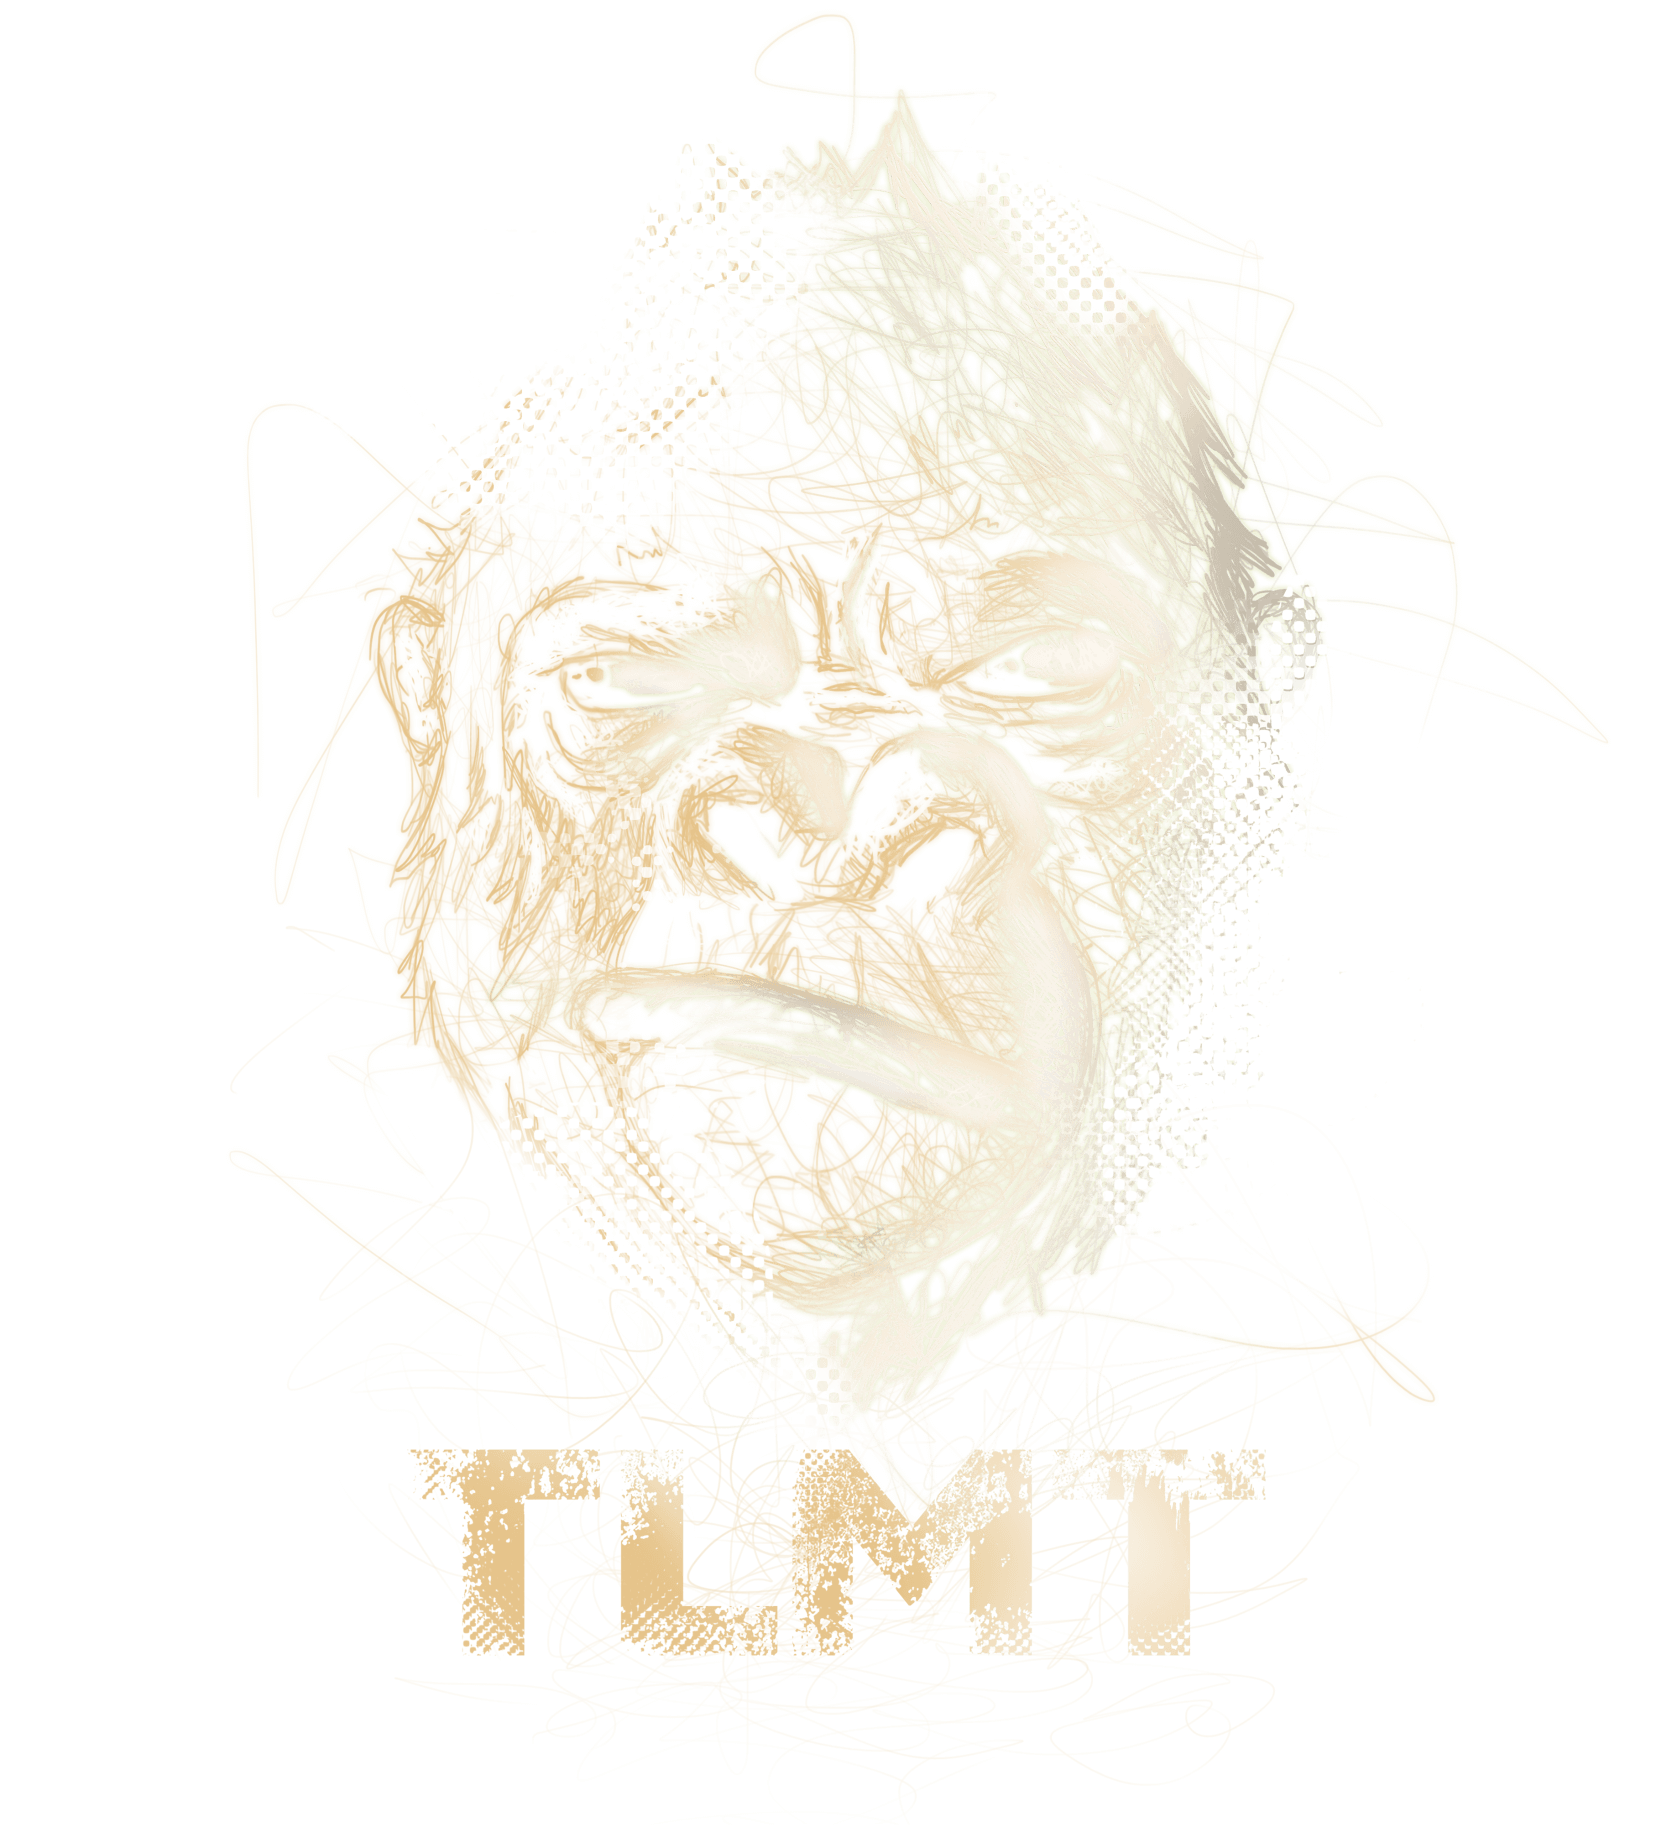
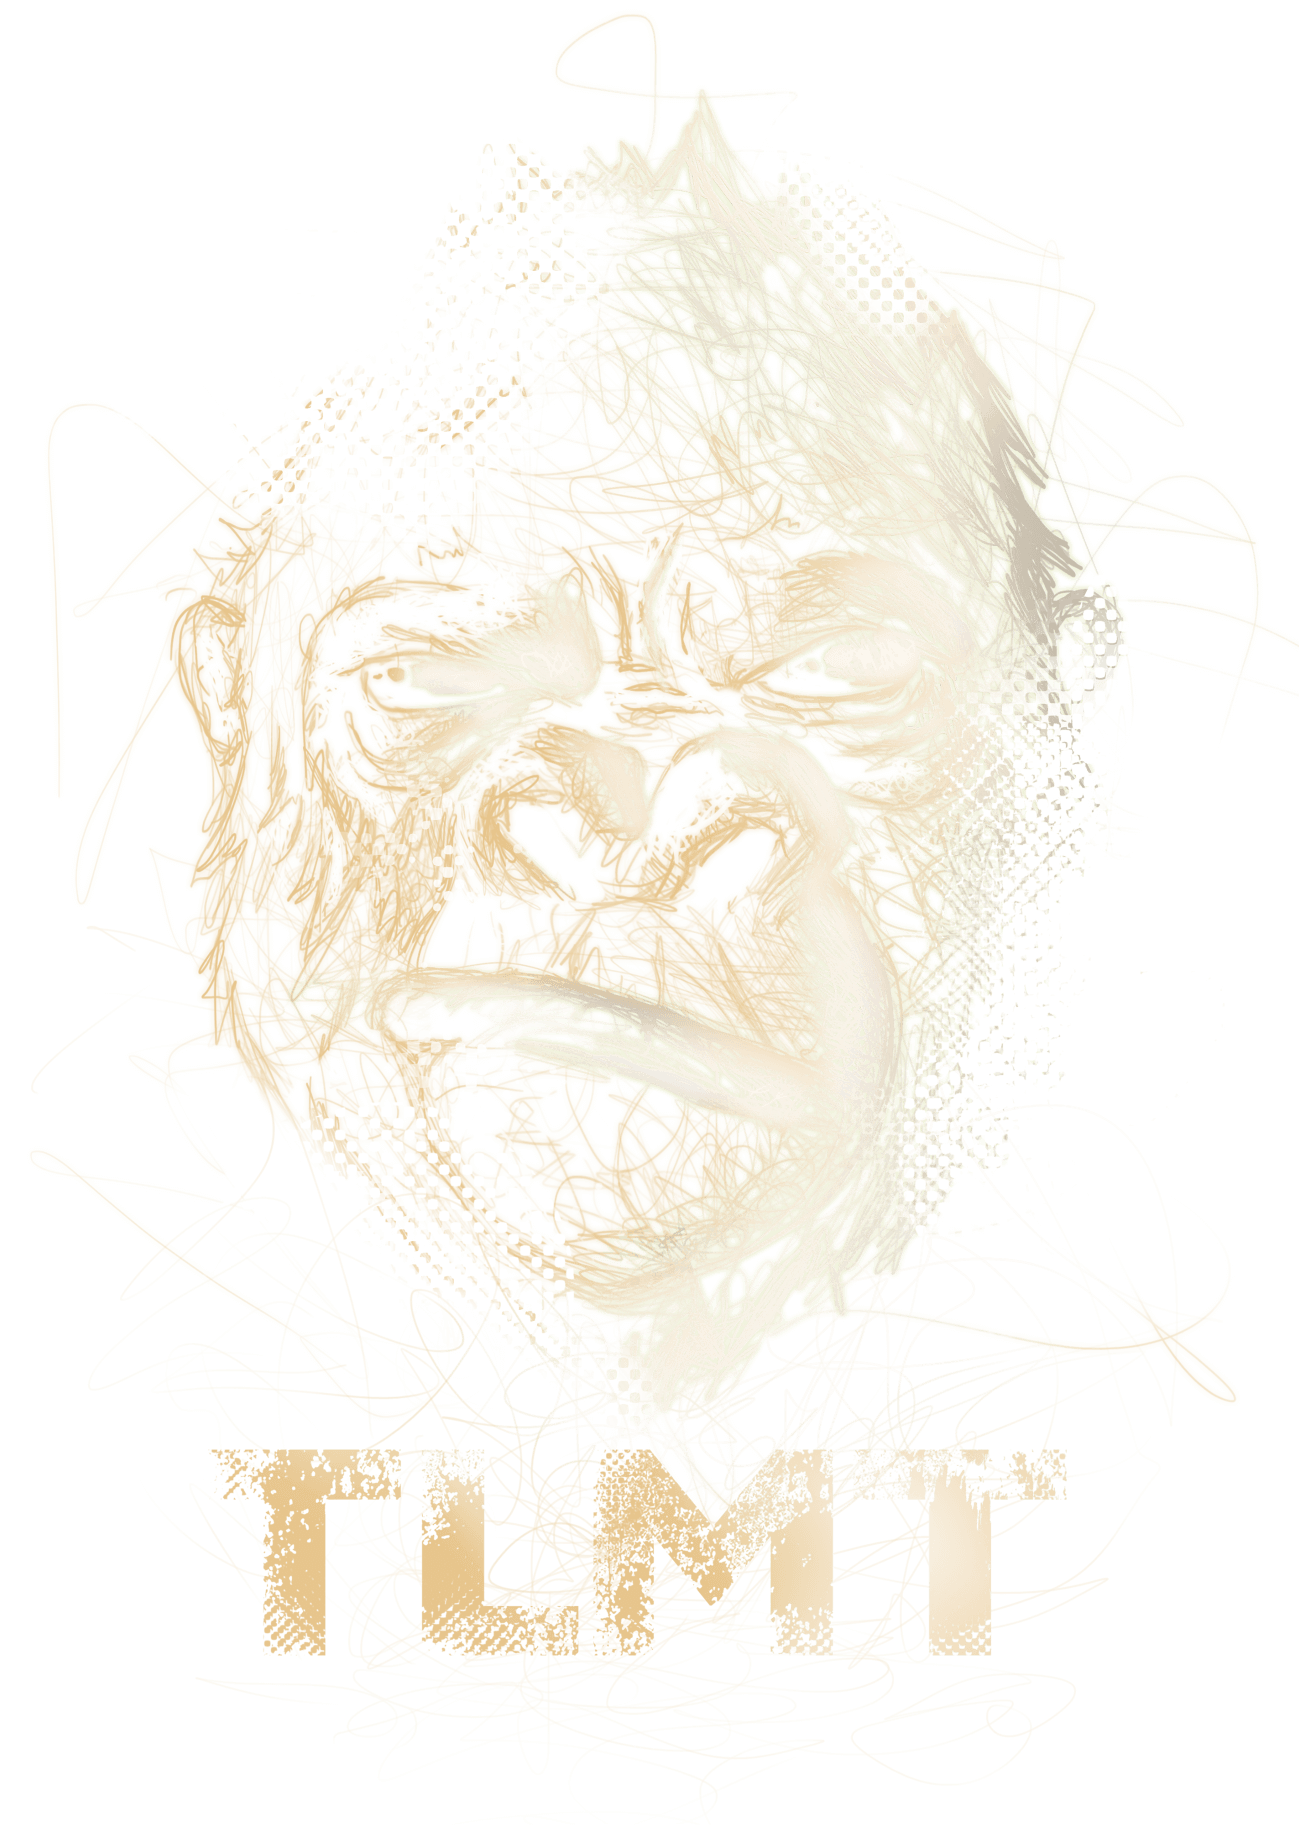
feat: improve showlist and monkey on mobile

diff --git a/src/components/showlist.tsx b/src/components/showlist.tsx
@@ -4,38 +4,47 @@ import { Heading3 } from '../identity/heading-3';
 
 export type ShowListProps = {
   year: number;
-  shows: {
-    date?: string;
-    place?: string;
-    name?: string;
-    unplugged?: string;
-    url?: string;
-  }[];
+  shows: ShowProps[];
+};
+
+export type ShowProps = {
+  date?: string;
+  place?: string;
+  name?: string;
+  unplugged?: string;
+  url?: string;
 };
 
 export const ShowList: FC<ShowListProps> = ({ year, shows }) => (
-  <div className="mb-8 last:mb-0 text-sm md:text-base">
+  <div className="mb-16 last:mb-0 text-sm md:text-base">
     <Heading3>{year}</Heading3>
-    <ul>
-      {shows.length > 0 ? (
-        shows.map(({ name, date, place, url = '' }, index) => (
+    {shows.length < 1 ? (
+      <span className="text-gray-500">Noch keine Shows geplant.</span>
+    ) : (
+      <ul className="list-disc pl-4 md:list-none md:pl-0">
+        {shows.map(({ name, date, place, url = '' }, index) => (
           <li key={index}>
-            {date} —{' '}
             {url ? (
               <Link href={url}>
-                <a className="hover:text-sundance" target="_blank">
-                  {name}
+                <a className="hover:border-b-4" target="_blank">
+                  <Show name={name} date={date} place={place} />
                 </a>
               </Link>
             ) : (
-              name
+              <Show name={name} date={date} place={place} />
             )}
-            , <span className="text-gray-500">{place}</span>
           </li>
-        ))
-      ) : (
-        <li className="text-gray-500">Noch keine Shows geplant. </li>
-      )}
-    </ul>
+        ))}
+      </ul>
+    )}
   </div>
+);
+
+export const Show: FC<ShowProps> = ({ name, date, place }) => (
+  <>
+    <span>
+      {date} — {name}
+    </span>
+    <span className="text-gray-500 block mb-3 last:mb-0 md:inline md:ml-2 font-light">{place}</span>
+  </>
 );

diff --git a/src/pages/index.tsx b/src/pages/index.tsx
@@ -25,24 +25,26 @@ const Home: NextPage = () => {
 
   return (
     <div>
-      <PageHeader>
+      <PageHeader fullscreen={true}>
         <div className="flex justify-center">
           <Img src="/img/monkey.png" alt={'angry gorilla'} className="max-h-[120vh]" />
         </div>
-        <div className="grid grid-cols-2 md:grid-cols-4 gap-8 xl:gap-16">
-          <SocialMediaLink socialMedia={'YouTube'}>
-            <YouTubeIcon></YouTubeIcon>
-          </SocialMediaLink>
-          <SocialMediaLink socialMedia={'Spotify'}>
-            <SpotifyIcon></SpotifyIcon>
-          </SocialMediaLink>
-          <SocialMediaLink socialMedia={'Instagram'}>
-            <InstagramIcon></InstagramIcon>
-          </SocialMediaLink>
-          <SocialMediaLink socialMedia={'Facebook'}>
-            <FacebookIcon></FacebookIcon>
-          </SocialMediaLink>
-        </div>
+        <Section>
+          <div className="grid grid-cols-2 md:grid-cols-4 gap-8 xl:gap-16">
+            <SocialMediaLink socialMedia={'YouTube'}>
+              <YouTubeIcon></YouTubeIcon>
+            </SocialMediaLink>
+            <SocialMediaLink socialMedia={'Spotify'}>
+              <SpotifyIcon></SpotifyIcon>
+            </SocialMediaLink>
+            <SocialMediaLink socialMedia={'Instagram'}>
+              <InstagramIcon></InstagramIcon>
+            </SocialMediaLink>
+            <SocialMediaLink socialMedia={'Facebook'}>
+              <FacebookIcon></FacebookIcon>
+            </SocialMediaLink>
+          </div>
+        </Section>
       </PageHeader>
       <main>
         <Section bgColor={true}>
